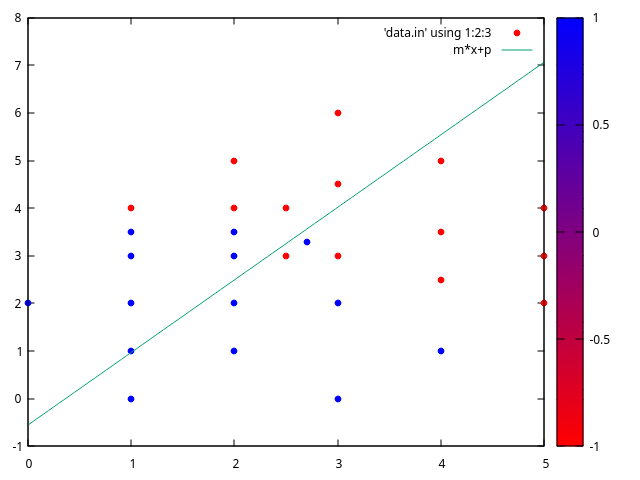
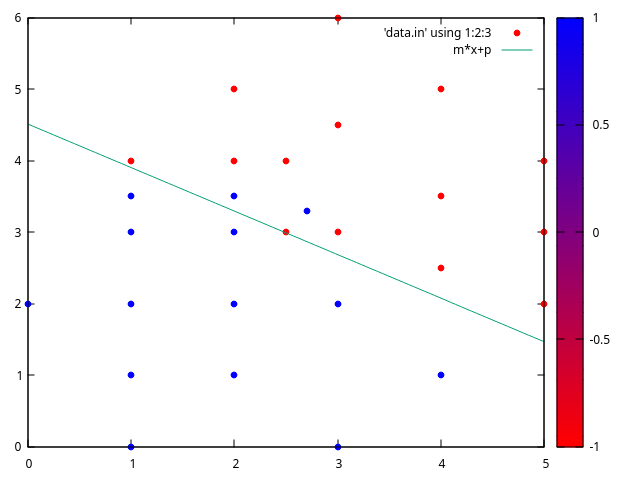
Fixed pocket algorithm

diff --git a/src/perceptron.c b/src/perceptron.c
@@ -22,6 +22,13 @@ perceptron_t *perceptron_create(size_t dim, activation_t a){
 	return p;
 }
 
+perceptron_t *perceptron_clone(const perceptron_t *p){
+	perceptron_t *clone;
+	clone = perceptron_create(p->dim, p->activation);
+	memcpy(clone->w, p->w, (p->dim + 1)*sizeof(float));
+	return clone;
+}
+
 void perceptron_destroy(perceptron_t *p){
 	free(p->w);
 	free(p);	
@@ -74,39 +81,43 @@ size_t perceptron_learn(perceptron_t *p, labeled_dataset_t *data){
 }
 
 /* One iteration of Pocket algorithm */
-static void pocket_weight_update(perceptron_t *p, labeled_dataset_t *data, size_t *t){
-	float LS, LS_before, *w_before;
-	w_before = (float*) malloc((p->dim+1) * sizeof(float));
-	
-	for(size_t i = 0; i < data->len; i++){
-		if(((perceptron_predict(p, data->x + i*p->dim)) != (data->y[i]))){
-			/* Keep a backup of the weights and the LS */
-			LS_before = compute_LS(p, data);		
-			memcpy(w_before, p->w, (p->dim+1)*sizeof(float));
+static void pocket_weight_update(perceptron_t *p, perceptron_t *pocket, labeled_dataset_t *data, size_t *t){
+	float pocket_LS, real_LS;
+
+	for(size_t i = 0; i < data->len; i++){	
+		if(((perceptron_predict(pocket, data->x + i*pocket->dim)) != (data->y[i]))){
 			
 			/* Change the weights as in the PLA */
-			for(size_t j = 0; j < p->dim; j++)
-				p->w[j] += data->y[i] * data->x[i*p->dim + j];
-			p->w[p->dim] += data->y[i];
+			for(size_t j = 0; j < pocket->dim; j++)
+				pocket->w[j] += data->y[i] * data->x[i*pocket->dim + j];
+			pocket->w[p->dim] += data->y[i];
 			
-			/* Compare the new LS with the previous one */
-			/* If it is worse than go back to the previous weights */
-			LS = compute_LS(p, data);
-			if(LS > LS_before)
-				memcpy(p->w, w_before, (p->dim+1)*sizeof(float));
-							
-			
+			/* Calculate losses and keep the best one */
+			pocket_LS = compute_LS(pocket, data);
+			real_LS = compute_LS(p, data);
+			if(real_LS > pocket_LS)
+				memcpy(p->w, pocket->w, (p->dim+1)*sizeof(float));	
 		}
 		++(*t);
 	}
-	free(w_before);
+	
 }
 
 size_t perceptron_pocket_learn(perceptron_t *p, labeled_dataset_t *data, size_t max_iterations){
 	assert(p->activation == sign);	
 	size_t t = 0;
-	while(compute_LS(p, data) && t < max_iterations)
-		pocket_weight_update(p, data, &t);	
+	
+	perceptron_t *pocket;
+	pocket = perceptron_clone(p);
+	/* Well, this is a waste of memory, since we are cloning the entire perceptron struct */
+	/* all we need to clone is the weights, but since calculate_LS needs a perceptron_t */
+	/* and since I am feeling lazy, I just cloned it */
+	/* TODO: Be less lazy */
+	
+	while(t < max_iterations)
+		pocket_weight_update(p, pocket, data, &t);	
+
+	perceptron_destroy(pocket);
 	return t;
 }
 

diff --git a/include/perceptron.h b/include/perceptron.h
@@ -13,6 +13,9 @@ typedef struct {
 /* Makes a perceptron given its input dimension and its activation function */
 /* and initialize its weights to random values between -1 and 1	*/
 perceptron_t *perceptron_create(size_t input_size, activation_t a);
+
+perceptron_t *perceptron_clone(const perceptron_t *p);
+
 void perceptron_destroy(perceptron_t *p);
 
 /* Note : All learning algorithms implemened in perceptron.c , */

diff --git a/test_noise.c b/test_noise.c
@@ -79,10 +79,10 @@ int main(int argc, char **argv){
 	perceptron_t *p = perceptron_create(2, &sign);
 	
 	/* You can switch between pocket and adaline here */
-#if 1
+#if 0
 	perceptron_adaline_learn(p, dataset, 15000);
 #else
-	perceptron_pocket_learn(p, dataset, 15000);
+	perceptron_pocket_learn(p, dataset, 1000);
 #endif
 
 	/* Print the final weights */

diff --git a/README.md b/README.md
@@ -2,9 +2,9 @@
 Perceptron learning algorithm, Pocket, and ADALINE, implemented in C
 
 # Plots
-|PLA|POCKET (Not working)|ADALINE|
+|PLA|POCKET|ADALINE|
 |----|----|----|
-|<img src="https://github.com/A-Rain-Lover/perceptron_algorithms/blob/master/plots/PLA.png" />|<img src="https://github.com/A-Rain-Lover/perceptron_algorithms/blob/master/plots/pocket.png" />|<img src="https://github.com/A-Rain-Lover/perceptron_algorithms/blob/master/plots/adaline.png" />|
+|<img src="https://github.com/A-Rain-Lover/perceptron_algorithms/blob/master/plots/PLA.png" />|<img src="https://github.com/A-Rain-Lover/perceptron_algorithms/blob/master/plots/pocket.png" />|<img src="https://github.com/A-Rain-Lover/perceptron_algorithms/blob/master/plots/ADALINE.png" />|
 
 
 # No dependencies
@@ -30,7 +30,6 @@ $ make test
 ```
 Output will be in `bin` directory
 ## Running the test
-* Reminder : you will need gnuplot for that
 
 First of all, after compiling, run the test of your choice, 
 eg.
@@ -38,6 +37,8 @@ eg.
 $ ./bin/perceptron_test_noise
 ```
 Then, run the `plot.sh` bash script
+* Reminder : you will need gnuplot for that
+
 ```bash
 $ ./plot
 ```
